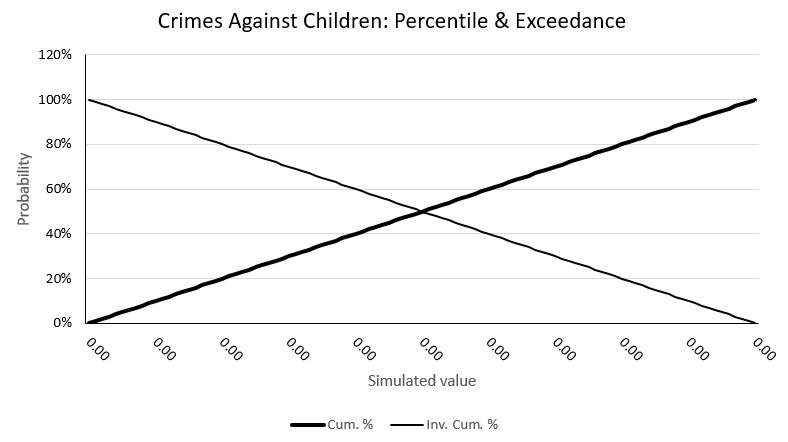
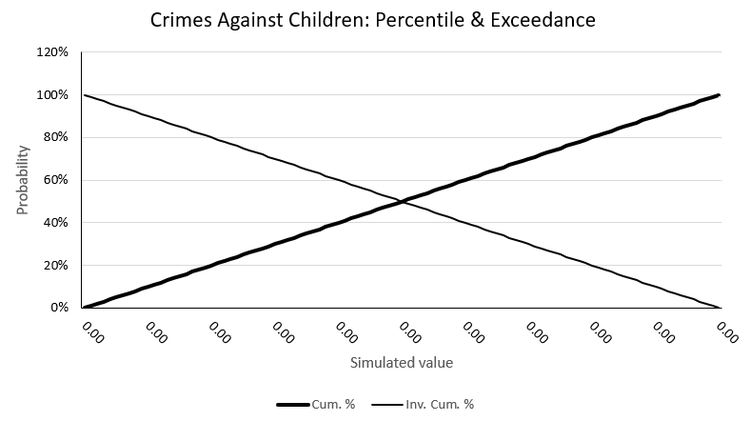
Adjust graph screenshots for print

diff --git a/KandRStyle/ut.tex b/KandRStyle/ut.tex
@@ -80,6 +80,9 @@ bindingoffset=0.12in]{geometry}
 \usepackage{rotating}
 \usepackage{graphicx}
 \usepackage[section]{placeins}
+\newcommand{\riskgraphscreenshot}[1]{%
+  \rotatebox{0}{\scalebox{1}{\includegraphics[width=0.95\linewidth,height=5in,keepaspectratio]{#1}}}%
+}
 %--------- Math ----------------
 \usepackage{amsmath}
 
@@ -1627,7 +1630,7 @@ We conducted a\index{risk assessment} risk assessment to better understand the t
 \section{Introduction}
 \begin{figure}[H]
   \centering
-  \rotatebox{0}{\scalebox{1}{\includegraphics[width=\linewidth]{figures/Screenshot 2026-07-28 145652.png}}}
+  \riskgraphscreenshot{figures/Screenshot 2026-07-28 145652.png}
   \caption{Example run of a\index{simulation!Monte Carlo} Monte Carlo simulation using state-level data to set bounds.  Here we chose\index{Personal Data Breach} Personal Data Breach victim counts from 2016 and 2022 as upper and lower bounds. 10,000 rows projected randomized values between these bounds and determined mean and counts by\index{confidence interval} confidence interval.
   \protect\endnote{Monte Carlo Modeling Toolkit authored by Derek E. Brink, CISSP, \url{www.linkedin.com/in/derekbrink}. March 2023.}
   }
@@ -1638,7 +1641,7 @@ We had a modest amount of education in\index{statistics} statistics as we began 
 
 \begin{figure}[H]
   \centering
-  \rotatebox{0}{\scalebox{1}{\includegraphics[width=\linewidth]{figures/Screenshot 2026-07-28 145609.png}}}
+  \riskgraphscreenshot{figures/Screenshot 2026-07-28 145609.png}
   \caption{Example results of applying\index{simulation!Monte Carlo} Monte Carlo simulation to forecasting.  Here we see the assertion that there is a 90\% likelihood that the number of victims will be between 457 and 879; the mean of the simulation was 667.\protect\endnote{Monte Carlo Modeling Toolkit authored by Derek E. Brink, CISSP, \url{www.linkedin.com/in/derekbrink}. March 2023.}}
   \label{fig:screenshot-montecarlo1}
 \end{figure}
@@ -1978,7 +1981,7 @@ We apply these matrices to the formula shown in Figure \ref{fig:statcalc-percap}
 \end{table}
 \begin{figure}[H]
   \centering
-  \rotatebox{0}{\scalebox{1}{\includegraphics[width=\linewidth]{figures/Screenshot 2026-08-05 093747.png}}}
+  \riskgraphscreenshot{figures/Screenshot 2026-08-05 093747.png}
   \caption{A\index{simulation!Monte Carlo} Monte Carlo simulation suggests that there is a 50\% probability that 0.5 or more\index{data breach} data breaches will occur within the \index{sample} sample.  This unusual result is because the confidence bounds are between 0 and 1.  We interpret this as a 50\% probability that one data breach will occur. \protect\endnote{\index{sample} Sample size was set equivalent to the City of\index{Chattanooga} Chattanooga to determine the per capita rates for each year over data from \index{American Samoa} American Samoa and\index{California} California.  The medians of those rates were used to set 10\% and 90\%\index{confidence interval} confidence intervals with \index{American Samoa} American Samoa and\index{California} California representing low and high \index{cybercrime} cybercrime counts respectively.}
   \protect\endnote{Monte Carlo Modeling Toolkit authored by Derek E. Brink, CISSP, \url{www.linkedin.com/in/derekbrink}. March 2023.}
   }
@@ -1987,7 +1990,7 @@ We apply these matrices to the formula shown in Figure \ref{fig:statcalc-percap}
 
 \begin{figure}[H]
   \centering
-  \rotatebox{0}{\scalebox{1}{\includegraphics[width=\linewidth]{figures/Screenshot 2026-08-05 092857.png}}}
+  \riskgraphscreenshot{figures/Screenshot 2026-08-05 092857.png}
   \caption{A\index{simulation!Monte Carlo} Monte Carlo simulation suggests that there is a 90\% probability that\index{data breach} data breaches will cost \$3,202 or more in a year.  There is a 50\% likelihood that they will cost \$16,678 or more in a year.  There is a 10\% chance that they will cost \$30,106 or more in a year. \protect\endnote{\index{sample} sample size was set equivalent to the City of\index{Chattanooga} Chattanooga to determine the per capita rates for each year over data from \index{American Samoa} American Samoa and\index{California} California.  The medians of those rates were used to set 10\% and 90\%\index{confidence interval} confidence intervals with \index{American Samoa} American Samoa and\index{California} California representing low and high \index{cybercrime} cybercrime impact values respectively.}
   \protect\endnote{Monte Carlo Modeling Toolkit authored by Derek E. Brink, CISSP, \url{www.linkedin.com/in/derekbrink}. March 2023.}
   }
@@ -1995,7 +1998,7 @@ We apply these matrices to the formula shown in Figure \ref{fig:statcalc-percap}
 \end{figure}
 \begin{figure}[H]
   \centering
-  \rotatebox{0}{\scalebox{1}{\includegraphics[width=\linewidth]{figures/Screenshot 2026-08-03 143039.png}}}
+  \riskgraphscreenshot{figures/Screenshot 2026-08-03 143039.png}
   \caption{A\index{simulation!Monte Carlo} Monte Carlo simulation suggests that there is a 90\% probability that 8 or more\index{Personal Data Breach} Personal Data Breaches will occur within the \index{sample} sample.  There is a 50\% likelihood that 17 or more will occur.  There is a 10\% chance that 26 or more will occur. \protect\endnote{\index{sample} Sample size was set equivalent to the City of\index{Chattanooga} Chattanooga to determine the per capita rates for each year over data from \index{American Samoa} American Samoa and\index{California} California.  The medians of those rates were used to set 10\% and 90\%\index{confidence interval} confidence intervals with \index{American Samoa} American Samoa and\index{California} California representing low and high \index{cybercrime} cybercrime counts respectively.}
   \protect\endnote{Monte Carlo Modeling Toolkit authored by Derek E. Brink, CISSP, \url{www.linkedin.com/in/derekbrink}. March 2023.}
   }
@@ -2004,7 +2007,7 @@ We apply these matrices to the formula shown in Figure \ref{fig:statcalc-percap}
 
 \begin{figure}[H]
   \centering
-  \rotatebox{0}{\scalebox{1}{\includegraphics[width=\linewidth]{figures/Screenshot 2026-08-03 212425.png}}}
+  \riskgraphscreenshot{figures/Screenshot 2026-08-03 212425.png}
   \caption{A\index{simulation!Monte Carlo} Monte Carlo simulation suggests that there is a 90\% probability that\index{Personal Data Breach} Personal Data Breaches will cost \$10,362 or more in a year.  There is a 50\% likelihood that they will cost \$52,724 or more in a year.  There is a 10\% chance that they will cost \$94,876 or more in a year. \protect\endnote{\index{sample} sample size was set equivalent to the City of\index{Chattanooga} Chattanooga to determine the per capita rates for each year over data from \index{American Samoa} American Samoa and \index{California} California.  The medians of those rates were used to set 10\% and 90\% \index{confidence interval} confidence intervals with \index{American Samoa} American Samoa and\index{California} California representing low and high \index{cybercrime} cybercrime impact values respectively.}
   \protect\endnote{Monte Carlo Modeling Toolkit authored by Derek E. Brink, CISSP, \url{www.linkedin.com/in/derekbrink}. March 2023.}
   }
@@ -2043,7 +2046,7 @@ We apply these matrices to the formula shown in Figure \ref{fig:statcalc-percap}
 
 \begin{figure}[H]
   \centering
-  \rotatebox{0}{\scalebox{1}{\includegraphics[width=\linewidth]{figures/Screenshot 2026-08-06 090519.png}}}
+  \riskgraphscreenshot{figures/Screenshot 2026-08-06 090519.png}
   \caption{The Monte Carlo simulation determined that there would be a 50\% chance of malware.  \protect\endnote{\index{sample} sample size was set equivalent to the City of\index{Chattanooga} Chattanooga to determine the per capita rates for each year over data from \index{American Samoa} American Samoa and \index{California} California.  The medians of those rates were used to set 10\% and 90\% \index{confidence interval} confidence intervals with \index{American Samoa} American Samoa and\index{California} California representing low and high \index{cybercrime} cybercrime impact values respectively.}
   \protect\endnote{Monte Carlo Modeling Toolkit authored by Derek E. Brink, CISSP, \url{www.linkedin.com/in/derekbrink}. March 2023.}
   }
@@ -2052,7 +2055,7 @@ We apply these matrices to the formula shown in Figure \ref{fig:statcalc-percap}
 
 \begin{figure}[H]
   \centering
-  \rotatebox{0}{\scalebox{1}{\includegraphics[width=\linewidth]{figures/Screenshot 2026-08-06 090805.png}}}
+  \riskgraphscreenshot{figures/Screenshot 2026-08-06 090805.png}
   \caption{A\index{simulation!Monte Carlo} Monte Carlo simulation suggests that there is a 90\% probability that\index{malware} malware will cost \$63 or more in a year.  There is a 50\% likelihood that they will cost \$322 or more in a year.  There is a 10\% chance that they will cost \$585 or more in a year. \protect\endnote{\index{sample} sample size was set equivalent to the City of\index{Chattanooga} Chattanooga to determine the per capita rates for each year over data from \index{American Samoa} American Samoa and \index{California} California.  The medians of those rates were used to set 10\% and 90\% \index{confidence interval} confidence intervals with \index{American Samoa} American Samoa and\index{California} California representing low and high \index{cybercrime} cybercrime impact values respectively.}
   \protect\endnote{Monte Carlo Modeling Toolkit authored by Derek E. Brink, CISSP, \url{www.linkedin.com/in/derekbrink}. March 2023.}
   }
@@ -2061,7 +2064,7 @@ We apply these matrices to the formula shown in Figure \ref{fig:statcalc-percap}
 
 \begin{figure}[H]
   \centering
-  \rotatebox{0}{\scalebox{1}{\includegraphics[width=\linewidth]{figures/Screenshot 2026-08-06 091252.png}}}
+  \riskgraphscreenshot{figures/Screenshot 2026-08-06 091252.png}
   \caption{The Monte Carlo simulation determined that there would be a 90\% chance of 3 or more index{phishing} phishing events.  There was a 50\% chance of 7 or more index{phishing} phishing events.  There was a 10\% chance of 11 or more events.  \protect\endnote{\index{sample} sample size was set equivalent to the City of\index{Chattanooga} Chattanooga to determine the per capita rates for each year over data from \index{American Samoa} American Samoa and \index{California} California.  The medians of those rates were used to set 10\% and 90\% \index{confidence interval} confidence intervals with \index{American Samoa} American Samoa and\index{California} California representing low and high \index{cybercrime} cybercrime impact values respectively.}
   \protect\endnote{Monte Carlo Modeling Toolkit authored by Derek E. Brink, CISSP, \url{www.linkedin.com/in/derekbrink}. March 2023.}
   }
@@ -2070,7 +2073,7 @@ We apply these matrices to the formula shown in Figure \ref{fig:statcalc-percap}
 
 \begin{figure}[H]
   \centering
-  \rotatebox{0}{\scalebox{1}{\includegraphics[width=\linewidth]{figures/Screenshot 2026-08-06 091913.png}}}
+  \riskgraphscreenshot{figures/Screenshot 2026-08-06 091913.png}
   \caption{A\index{simulation!Monte Carlo} Monte Carlo simulation suggests that there is a 90\% probability that\index{phishing} phishing events will cost \$4003 or more in a year.  There is a 50\% likelihood that they will cost \$19,873 or more in a year.  There is a 10\% chance that they will cost \$36,397 or more in a year. \protect\endnote{\index{sample} sample size was set equivalent to the City of\index{Chattanooga} Chattanooga to determine the per capita rates for each year over data from \index{American Samoa} American Samoa and \index{California} California.  The medians of those rates were used to set 10\% and 90\% \index{confidence interval} confidence intervals with \index{American Samoa} American Samoa and\index{California} California representing low and high \index{cybercrime} cybercrime impact values respectively.}
   \protect\endnote{Monte Carlo Modeling Toolkit authored by Derek E. Brink, CISSP, \url{www.linkedin.com/in/derekbrink}. March 2023.}
   }
@@ -2108,7 +2111,7 @@ We apply these matrices to the formula shown in Figure \ref{fig:statcalc-percap}
 
 \begin{figure}[H]
   \centering
-  \rotatebox{0}{\scalebox{1}{\includegraphics[width=\linewidth]{figures/Screenshot 2026-08-06 085637.png}}}
+  \riskgraphscreenshot{figures/Screenshot 2026-08-06 085637.png}
   \caption{The Monte Carlo simulation determined that there would be no reasonable chance of crimes against children in this sample.  \protect\endnote{\index{sample} sample size was set equivalent to the City of\index{Chattanooga} Chattanooga to determine the per capita rates for each year over data from \index{American Samoa} American Samoa and \index{California} California.  The medians of those rates were used to set 10\% and 90\% \index{confidence interval} confidence intervals with \index{American Samoa} American Samoa and\index{California} California representing low and high \index{cybercrime} cybercrime impact values respectively.}
   \protect\endnote{Monte Carlo Modeling Toolkit authored by Derek E. Brink, CISSP, \url{www.linkedin.com/in/derekbrink}. March 2023.}
   }
@@ -2117,7 +2120,7 @@ We apply these matrices to the formula shown in Figure \ref{fig:statcalc-percap}
 
 \begin{figure}[H]
   \centering
-  \rotatebox{0}{\scalebox{1}{\includegraphics[width=\linewidth]{figures/Screenshot 2026-08-06 090100.png}}}
+  \riskgraphscreenshot{figures/Screenshot 2026-08-06 090100.png}
   \caption{Since the Monte Carlo simulation determined that there would be no reasonable chance of crimes against children in this sample, we can see that there would be no financial impact.  \protect\endnote{\index{sample} sample size was set equivalent to the City of\index{Chattanooga} Chattanooga to determine the per capita rates for each year over data from \index{American Samoa} American Samoa and \index{California} California.  The medians of those rates were used to set 10\% and 90\% \index{confidence interval} confidence intervals with \index{American Samoa} American Samoa and\index{California} California representing low and high \index{cybercrime} cybercrime impact values respectively.}
   \protect\endnote{Monte Carlo Modeling Toolkit authored by Derek E. Brink, CISSP, \url{www.linkedin.com/in/derekbrink}. March 2023.}
   }
